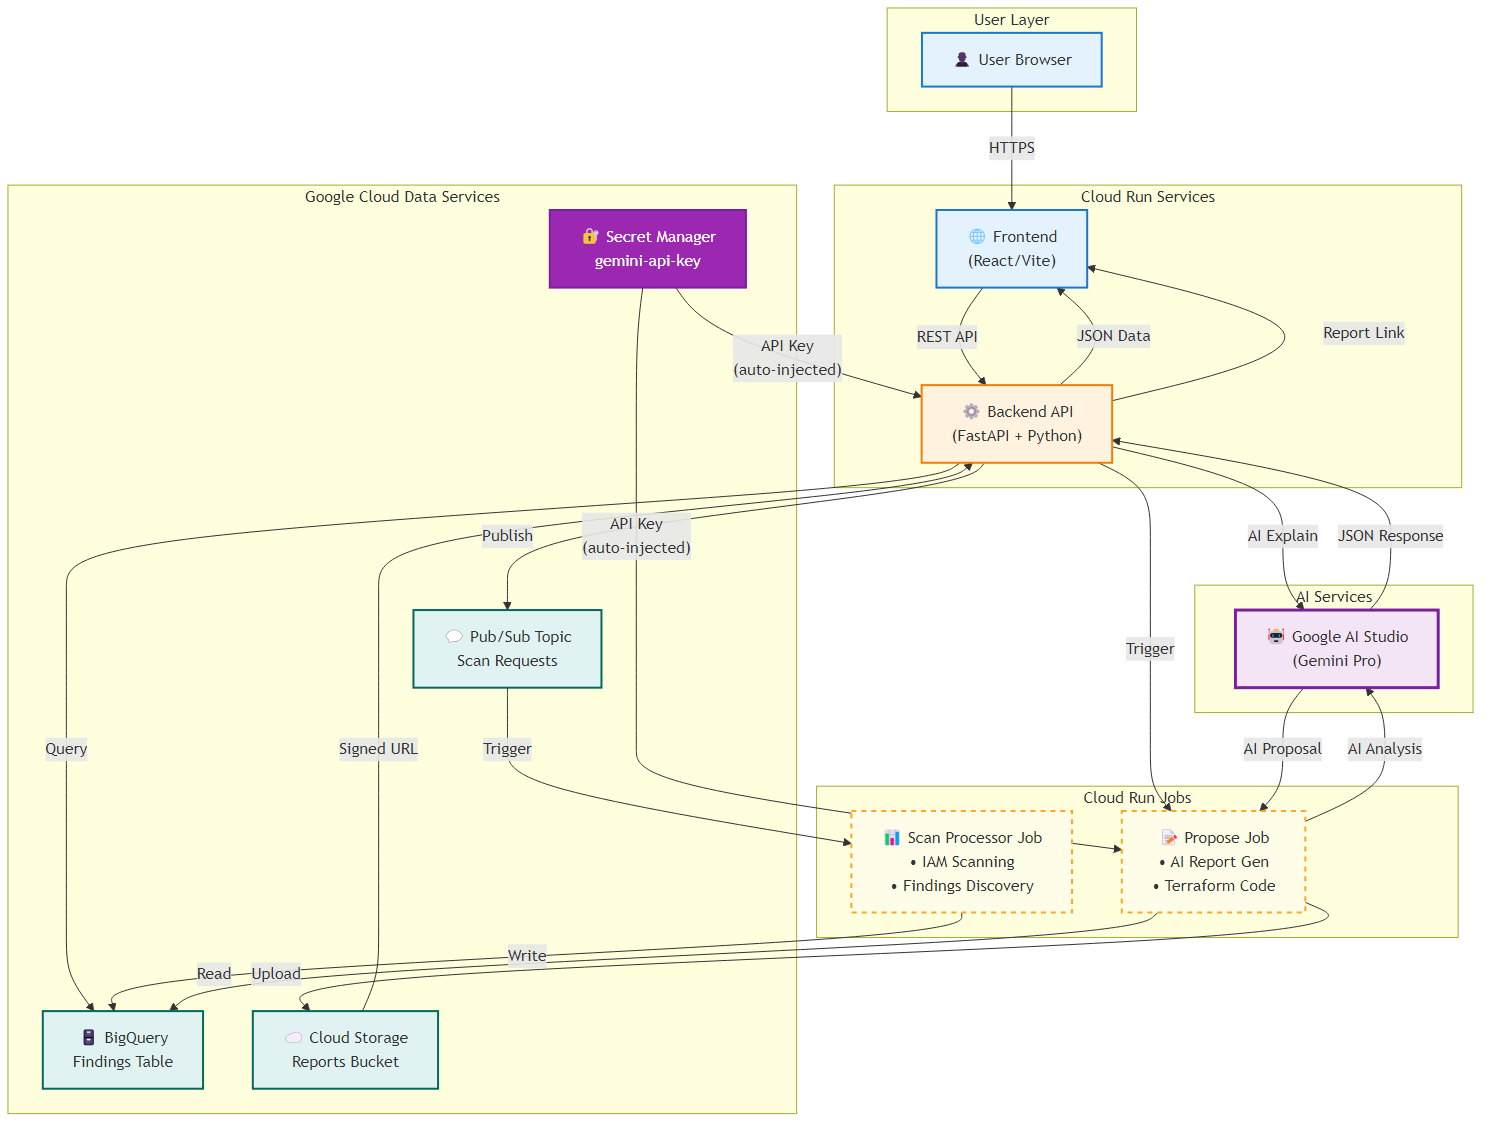
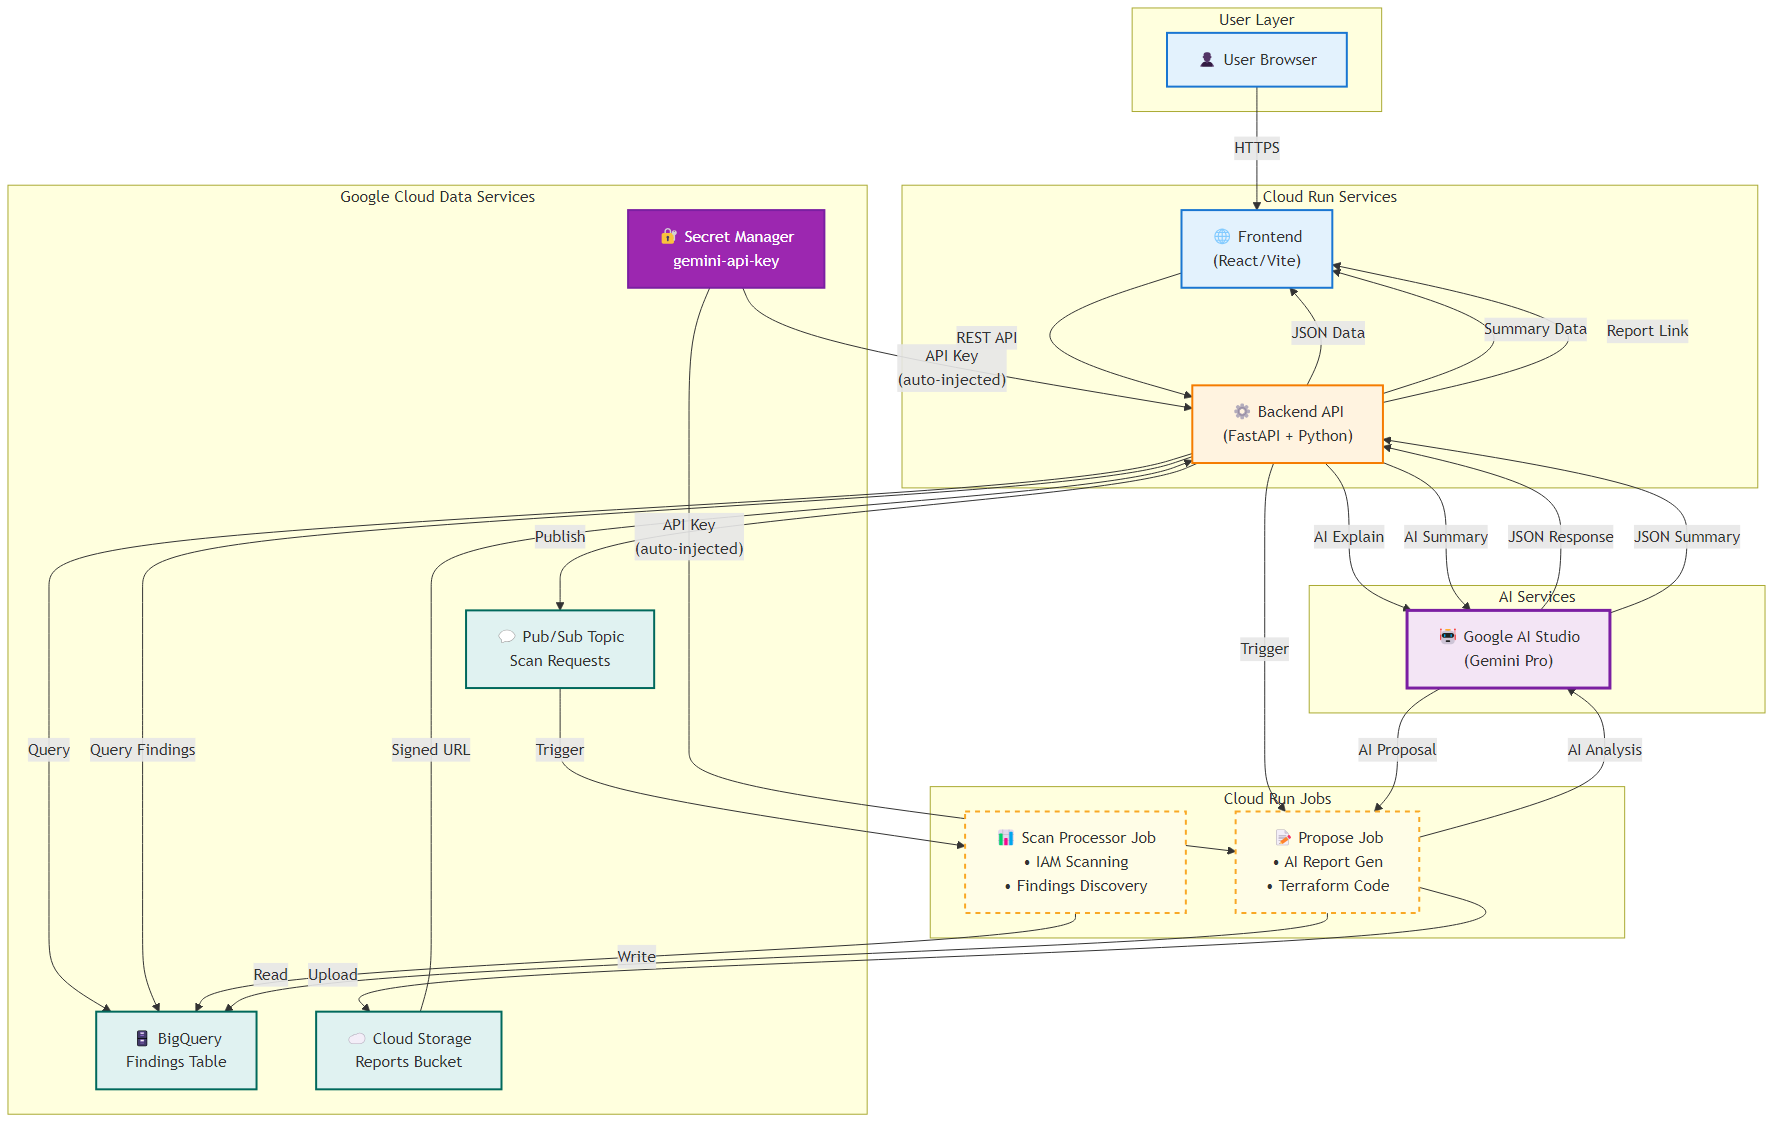
Update documentation: Add AI Summary feature to architecture diagrams
- Add AI Summary flow to architecture-diagram.mmd
- Add GET /summary/{job_id} endpoint to ARCHITECTURE.md
- Add Summary Workflow section to ARCHITECTURE.md
- Update README.md to include AI Summary in Frontend actions
- Update README.md Architecture Flow to include AI Summary
- Complete documentation for all three AI features: Explain, Summary, Propose

diff --git a/docs/ARCHITECTURE.md b/docs/ARCHITECTURE.md
@@ -43,7 +43,7 @@
   - Scan submission form
   - Job listing with severity breakdown
   - Findings viewer with filters
-  - Explain and Propose actions
+  - Explain, Summary, and Propose actions
   - Real-time status updates
 
 ### Backend API (FastAPI)
@@ -53,6 +53,7 @@
   - POST /scan - Submit new scan request
   - GET /findings/{job_id} - Retrieve findings
   - GET /explain/{finding_id} - Get detailed explanation
+  - GET /summary/{job_id} - Generate AI-powered executive summary
   - POST /propose/{job_id} - Trigger fix proposal
   - GET /jobs - List recent jobs
 
@@ -96,9 +97,18 @@
 1. User clicks "Explain" on a finding
 2. Frontend calls GET /explain/{finding_id}
 3. Backend queries BigQuery for detailed finding data
-4. Backend formats explanation with blast radius
+4. Backend calls AI Studio to generate explanation with blast radius
 5. Backend returns structured explanation
 6. Frontend displays explanation to user
+
+### Summary Workflow
+1. User clicks "AI Summary" on a job
+2. Frontend calls GET /summary/{job_id}
+3. Backend queries BigQuery for all findings in the job
+4. Backend calls AI Studio to generate executive summary
+5. AI returns comprehensive summary with risk overview, compliance status, and remediation roadmap
+6. Backend returns summary data
+7. Frontend displays formatted summary modal with phase-based roadmap
 
 ### Propose Workflow
 1. User clicks "Propose" for a job

diff --git a/README.md b/README.md
@@ -26,6 +26,7 @@ Zero-Trust Explainer is a comprehensive security scanning and analysis tool for 
 User Browser → Frontend (React) → Backend API (FastAPI) → AI Studio (Gemini Pro)
                                                         → Pub/Sub → Scan Job → BigQuery
                                                         → Propose Job → Cloud Storage
+                                                        → AI Summary (direct from Backend)
 ```
 
 **Note**: The Scan Processor can optionally run as a **Cloud Run Worker Pool** for continuous processing instead of an on-demand Job. See [Architecture Options](#architecture-options) below for details on when to use each approach.
@@ -41,7 +42,7 @@ User Browser → Frontend (React) → Backend API (FastAPI) → AI Studio (Gemin
 ### Frontend (React/Vite)
 - 🤖 AI-powered job cards with intelligent severity breakdown
 - Advanced filtering by job_id and severity
-- Actions: Scan, Refresh, 🤖 AI Explain, 🤖 AI Propose
+- Actions: Scan, Refresh, 🤖 AI Explain, 📊 AI Summary, 🤖 AI Propose
 - Real-time updates and loading states with AI indicators
 - Beautiful modal displays for AI-generated content
 
